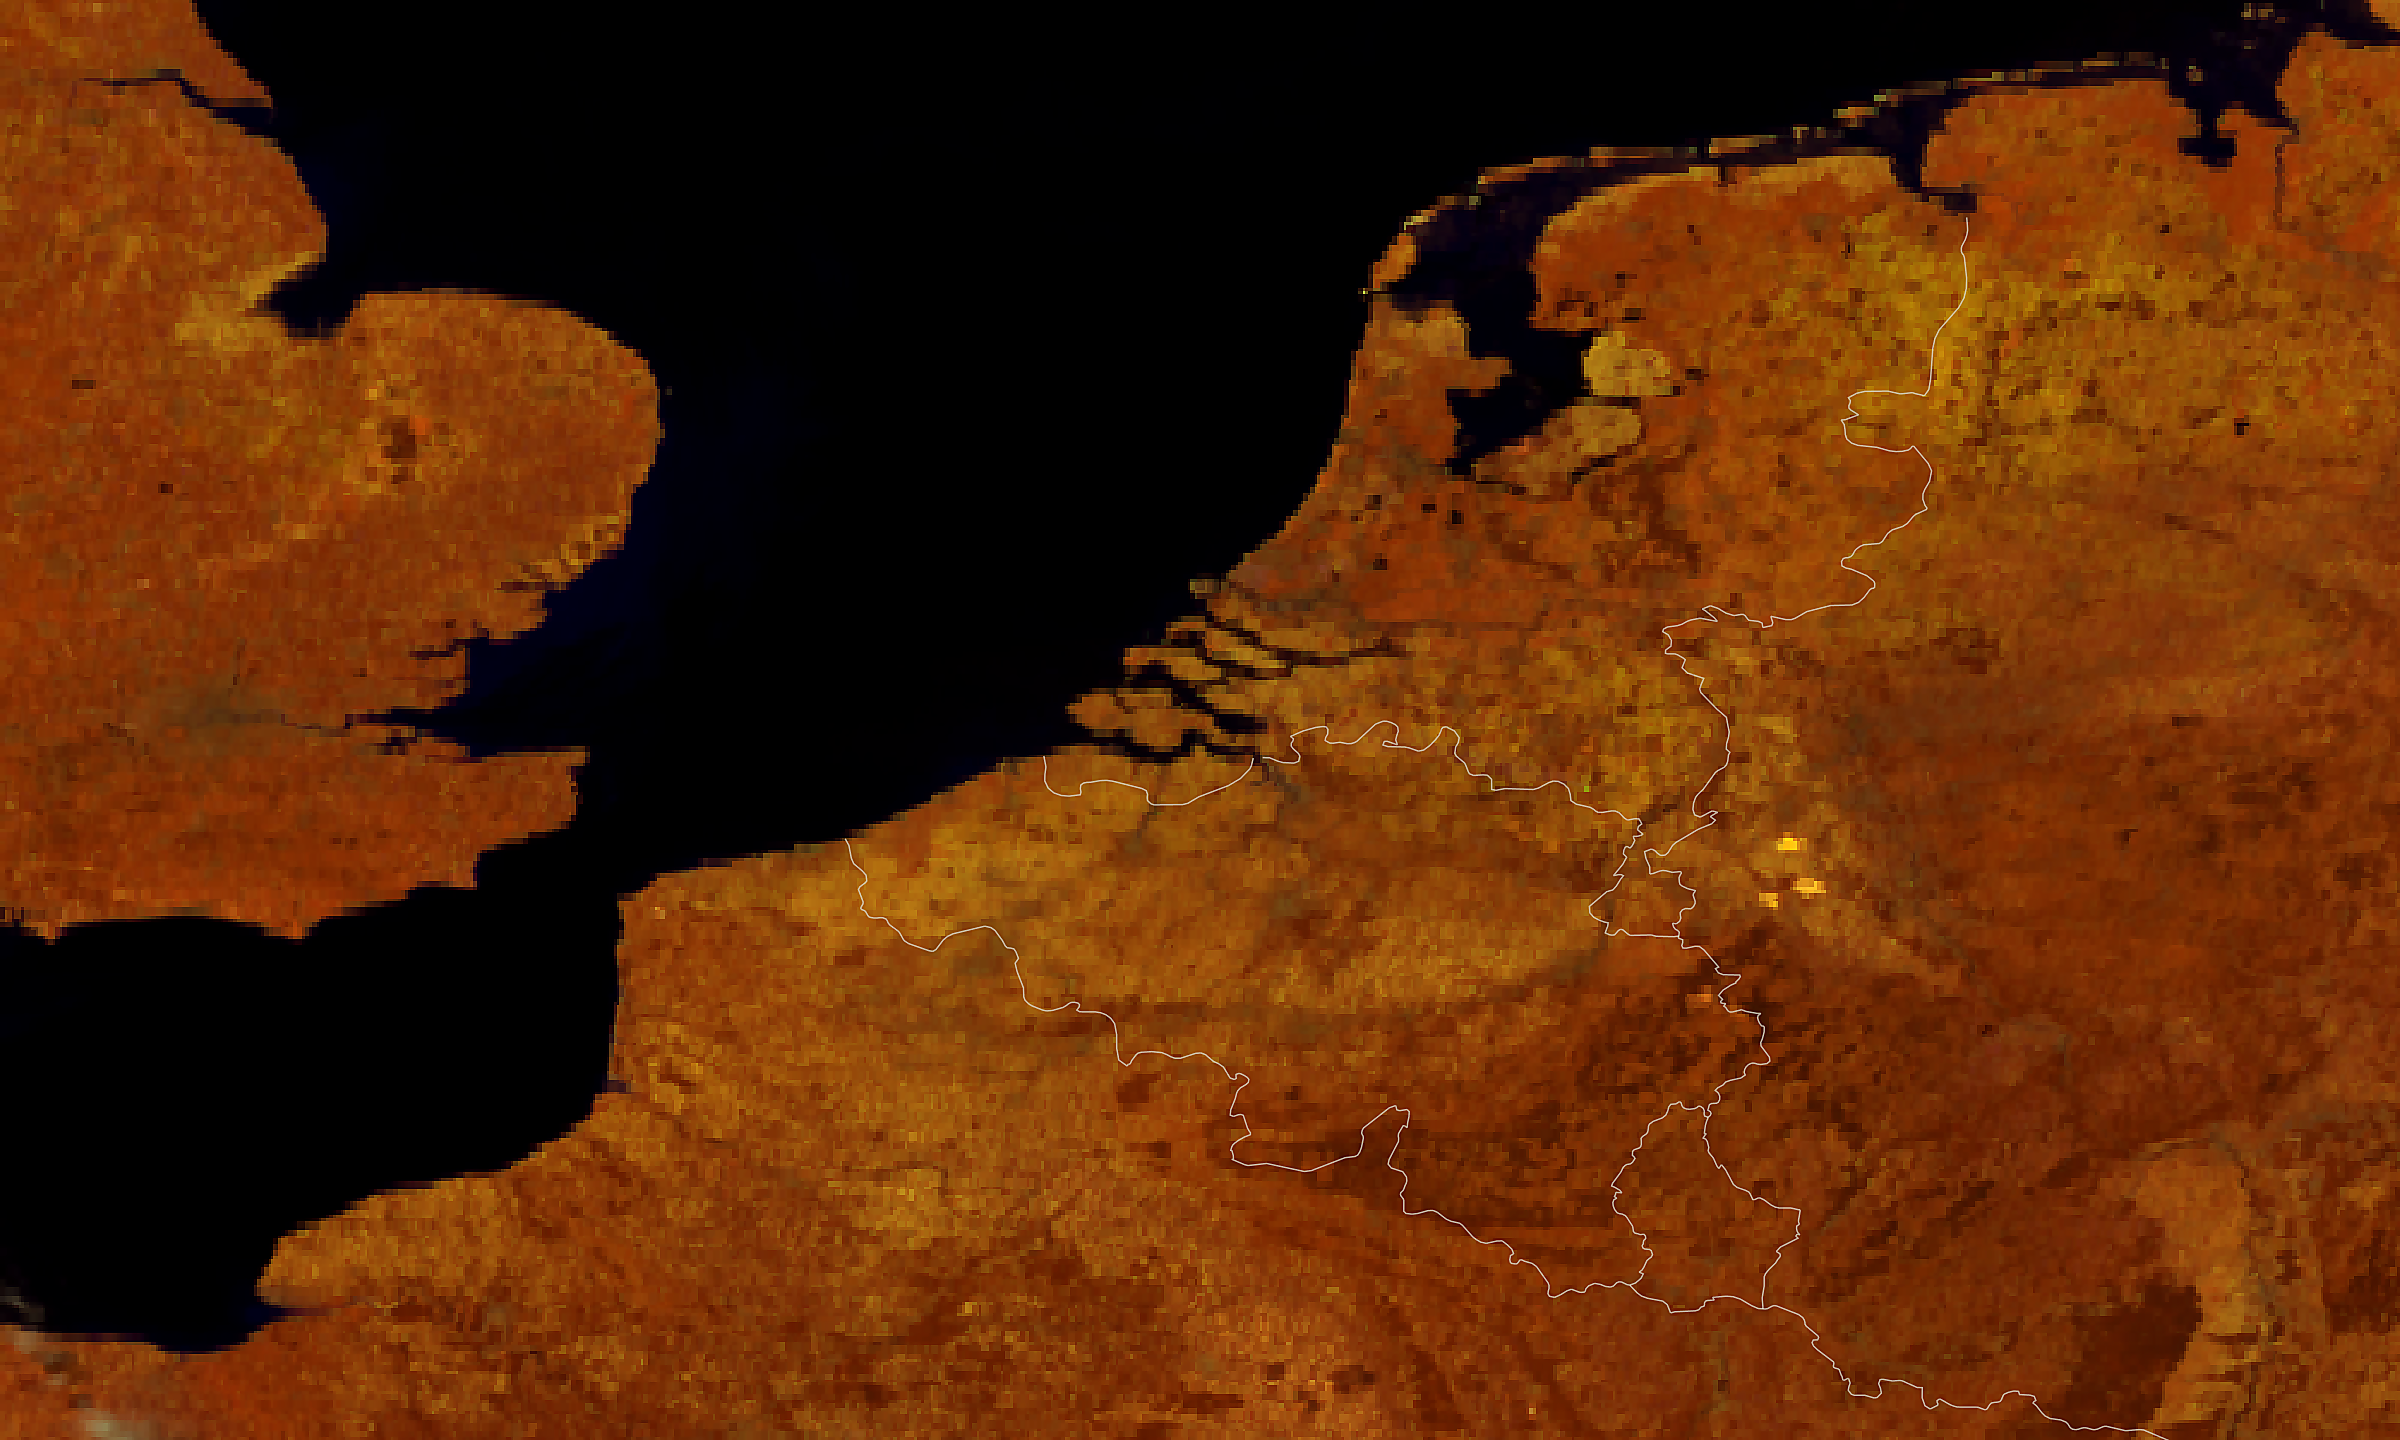
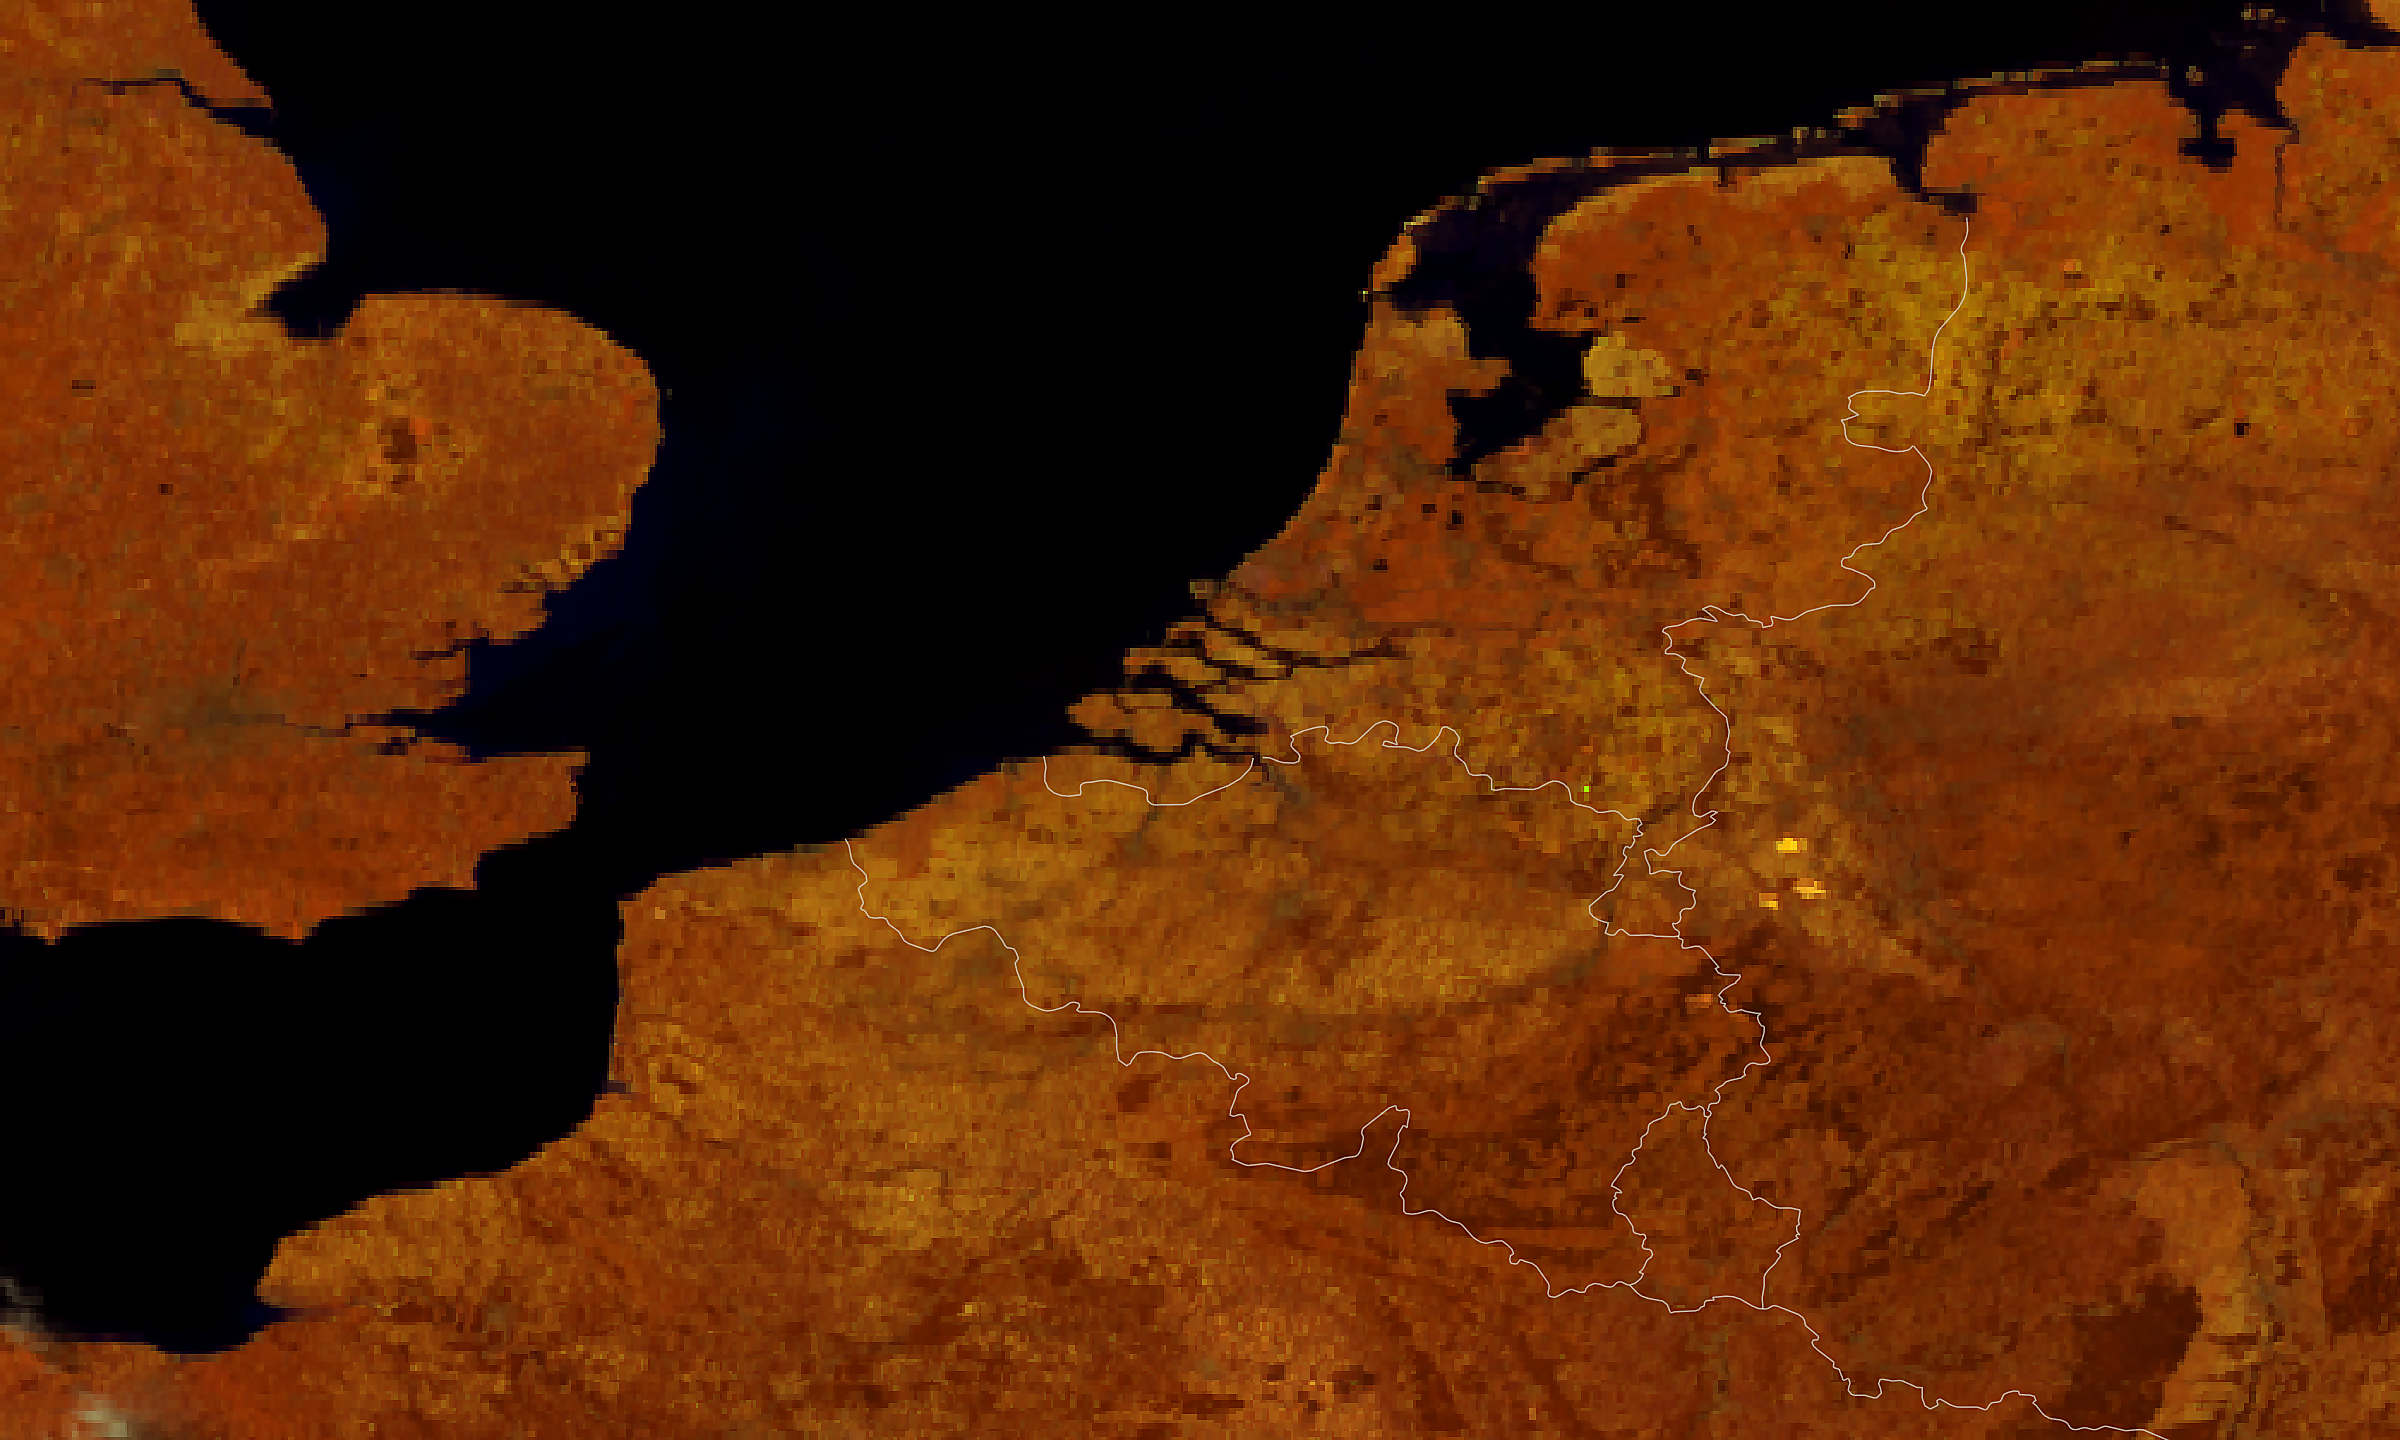
MTG Benelux satellietbeeld update 2026-04-30 17:00

diff --git a/mtg_benelux_meta.js b/mtg_benelux_meta.js
@@ -1,2 +1,2 @@
 const MTG_BENELUX_PRODUCT = "mtg_fd:rgb_cloudphase";
-const MTG_BENELUX_TIJD = "2026-04-30T14:20:00Z";
+const MTG_BENELUX_TIJD = "2026-04-30T14:40:00Z";
